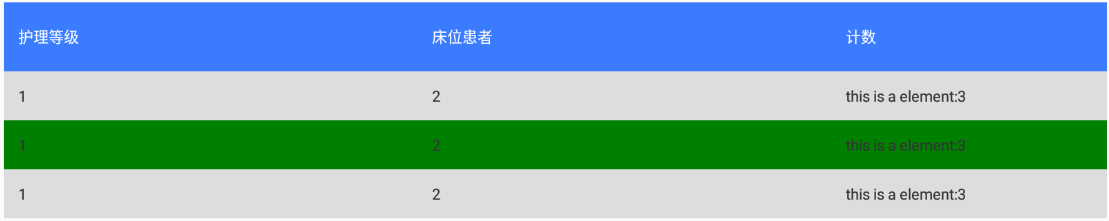
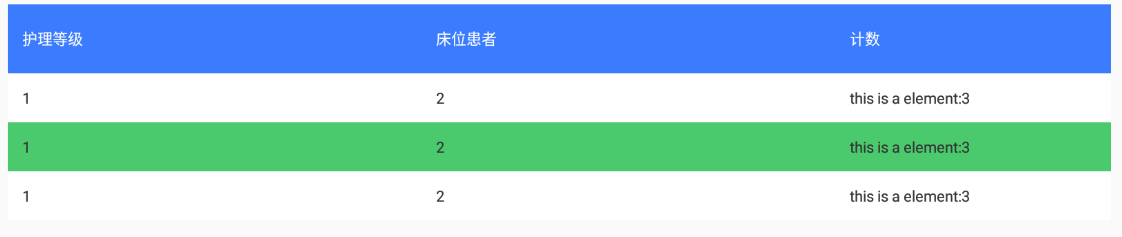
图片优化。

diff --git a/example.js b/example.js
@@ -84,10 +84,10 @@ export default class App extends Component {
                     style={{ width: 800, height: 550 }}
                     headStyle={{ height: 50 }}
                     headTextStyle={{ width: 200 }}
-                    bodyStyle={{ backgroundColor: '#ddd' }}
+                    bodyStyle={{ backgroundColor: '#fff' }}
                     bodyRowStyle={{ height: 50 }}
                     bodyTextStyle={{ color: '#333' }}
-                    evenRowColor="green"
+                    evenRowColor="#4ACA6D"
                     horizontal />
                 <BaseModal
                     visible={this.state.visible}
